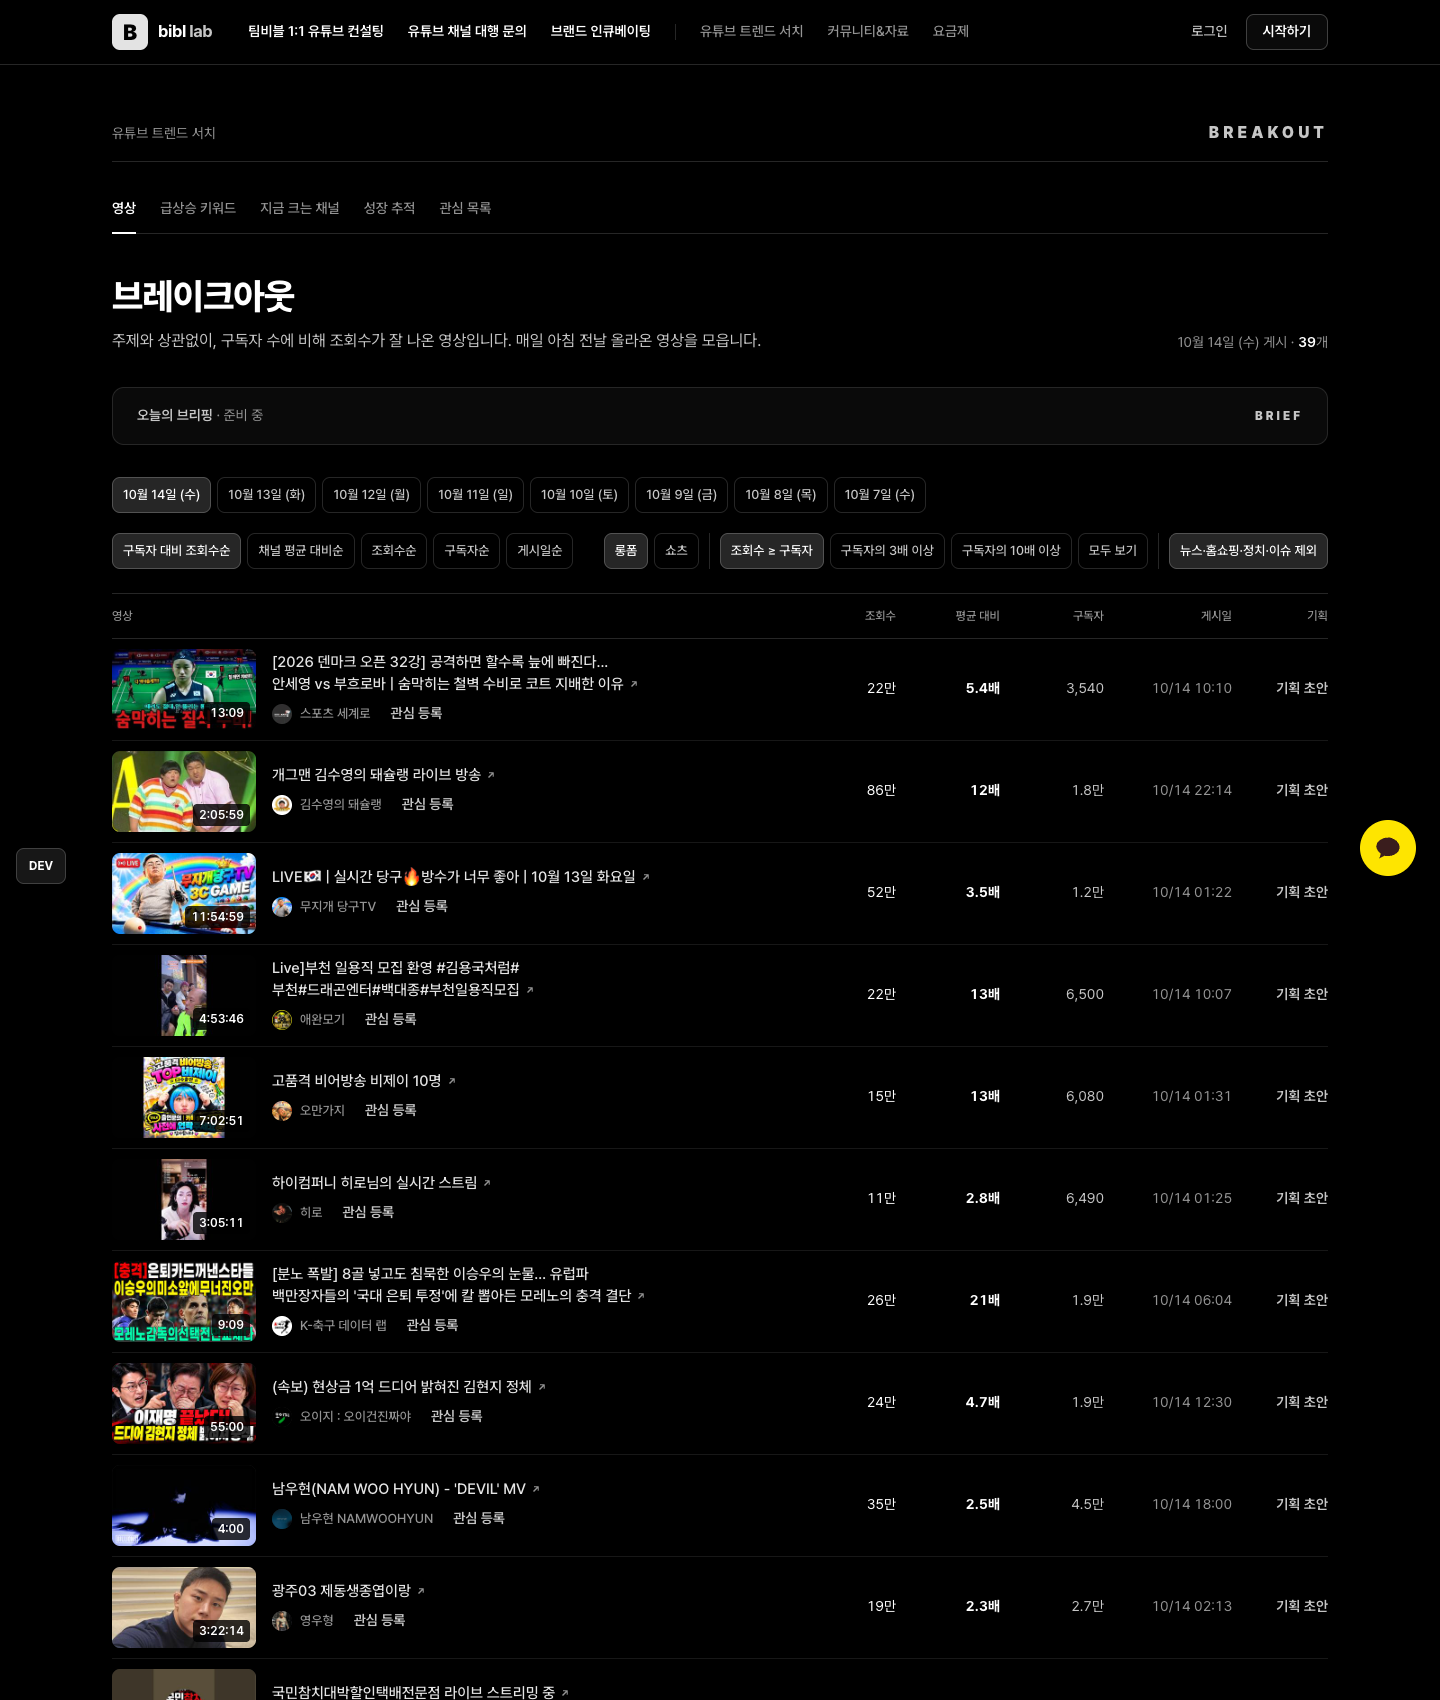
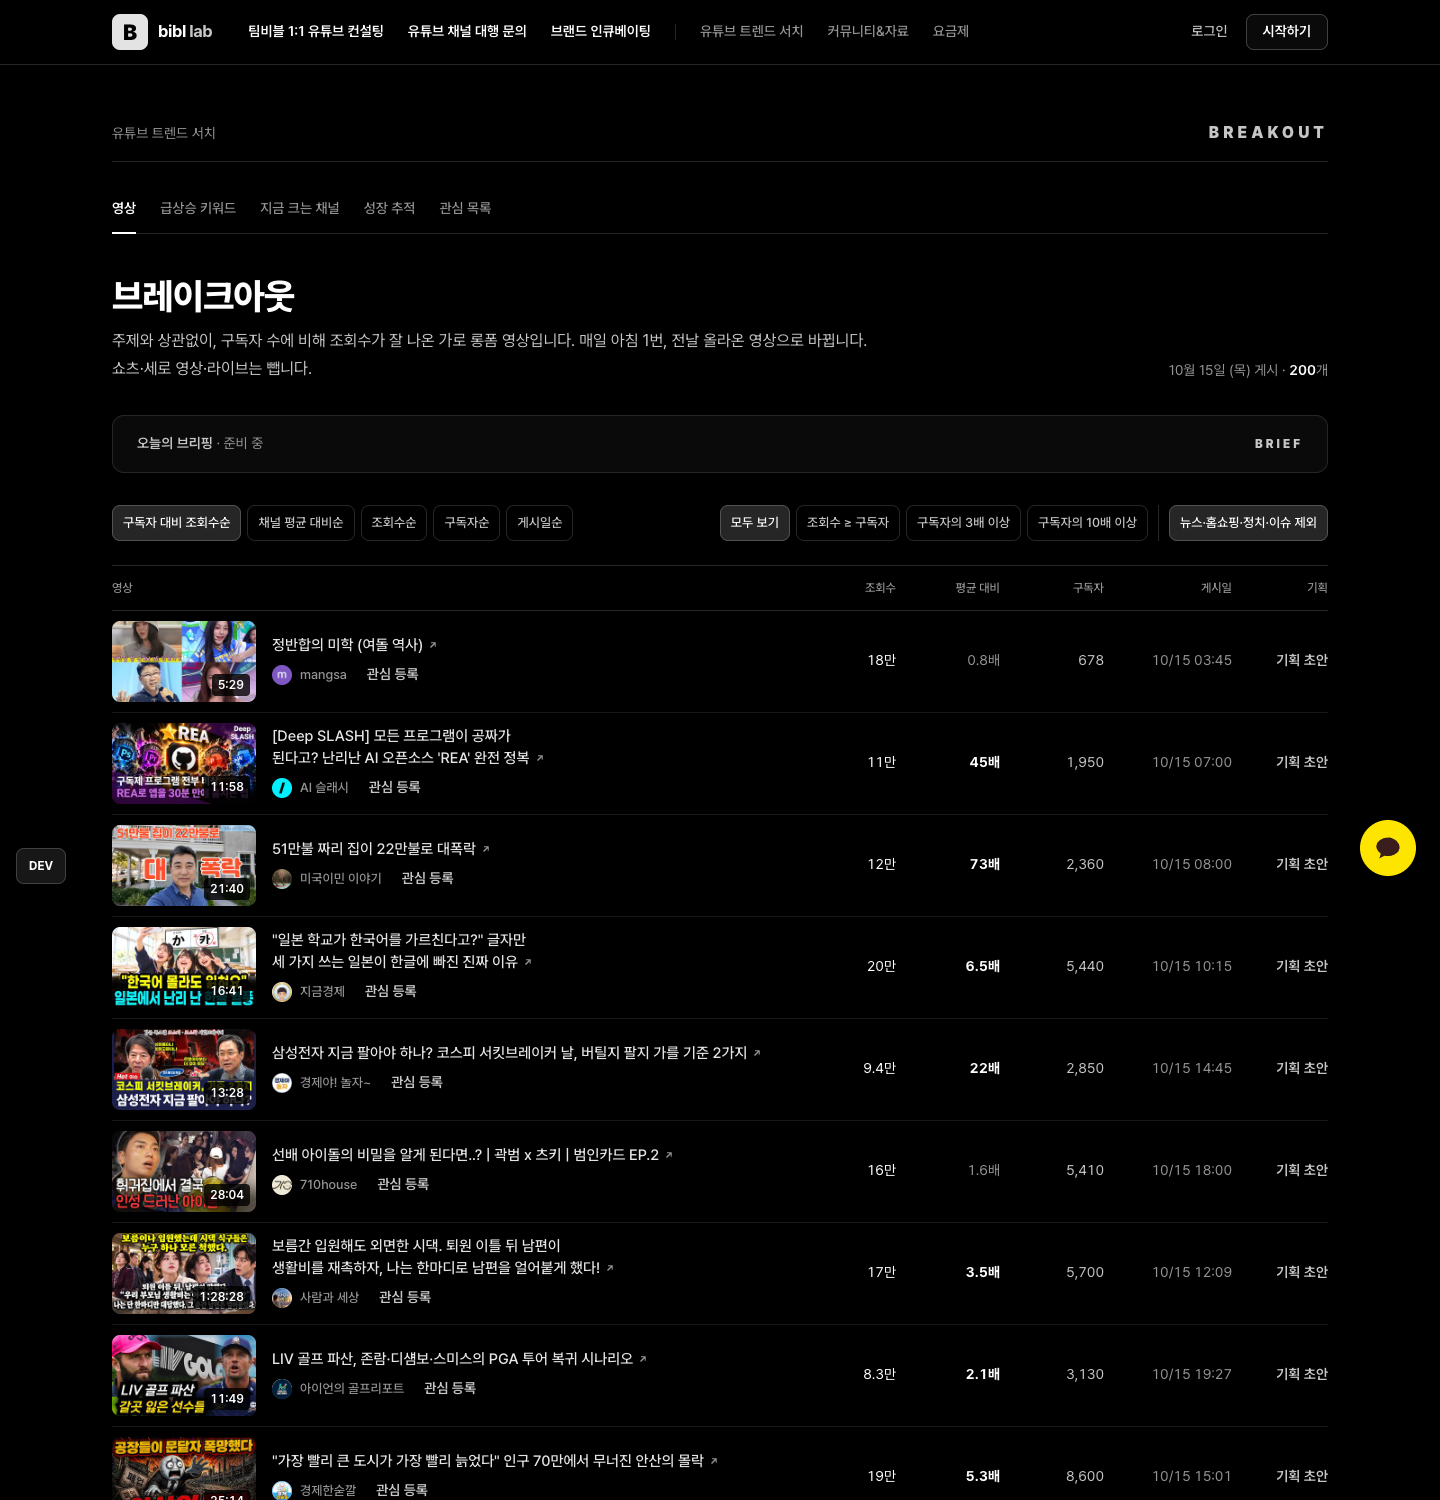
브레이크아웃: 가로 롱폼 후보 수집 확대(medium·long × 전체·카테고리 13개), 기본 기준 '모두 보기'
- 하루 후보 약 360 → 약 2,900, 가로 롱폼 190 → 약 490(10/15 기준), 기본 화면 200개 채움
- 쇼츠 길이 검색은 하지 않음(인기 차트에서만 일부)

diff --git a/src/lib/breakout.ts b/src/lib/breakout.ts
@@ -128,13 +128,14 @@ function parseDuration(iso: string): number {
 
 const chunk = <T,>(a: T[], n: number) => Array.from({ length: Math.ceil(a.length / n) }, (_, i) => a.slice(i * n, i * n + n));
 
-async function searchIds(after: string, before: string, videoDuration: string, pages: number): Promise<string[]> {
+async function searchIds(after: string, before: string, videoDuration: string, pages: number, categoryId?: string): Promise<string[]> {
   const ids: string[] = [];
   let pageToken = "";
   for (let p = 0; p < pages; p++) {
     const data = await yt("search", {
       part: "id", type: "video", regionCode: "KR", relevanceLanguage: "ko", order: "viewCount",
       publishedAfter: after, publishedBefore: before, maxResults: "50", videoDuration,
+      ...(categoryId ? { videoCategoryId: categoryId } : {}),
       ...(pageToken ? { pageToken } : {}),
     });
     if (!data) break;
@@ -160,12 +161,25 @@ const isBlocked = (title?: string) => BLOCK.test(title ?? "");
 
 const POPULAR_CATEGORIES = ["", "1", "10", "17", "20", "22", "23", "24", "25", "26", "27", "28"];
 
+/**
+ * 가로 롱폼 후보를 넉넉히 모으는 검색(소유자 결정 2026-10-16: 브레이크아웃은 가로 롱폼만, 하루 200개).
+ * 쇼츠 길이(short) 검색은 하지 않고 medium(4~20분)·long(20분 넘음)만, 전체 + 카테고리별로 조회수 순.
+ * 뉴스(25)는 화면에서 빼므로 카테고리 검색에서도 뺀다. 하루 search.list 약 64회(약 6,400 unit, 뒤쪽 키부터 사용).
+ */
+const LONG_DURATIONS = ["medium", "long"] as const;
+const LONG_SEARCH_PAGES = 6;
+const SEARCH_CATEGORIES = ["1", "2", "10", "15", "17", "19", "20", "22", "23", "24", "26", "27", "28"];
+const CATEGORY_SEARCH_PAGES = 2;
+
 export async function collectBreakout(date: string, opts: { dryRun?: boolean } = {}): Promise<{ date: string; candidates: number; saved: number; sample?: unknown[] }> {
   const { after, before } = kstDayRange(date);
   const afterMs = Date.parse(after), beforeMs = Date.parse(before);
 
   // 1) 후보 영상 ID
-  const searchSets = await Promise.all(["short", "medium", "long"].map((d) => searchIds(after, before, d, 4)));
+  const searchSets = await Promise.all([
+    ...LONG_DURATIONS.map((d) => searchIds(after, before, d, LONG_SEARCH_PAGES)),
+    ...SEARCH_CATEGORIES.flatMap((c) => LONG_DURATIONS.map((d) => searchIds(after, before, d, CATEGORY_SEARCH_PAGES, c))),
+  ]);
   const popular = await Promise.all(POPULAR_CATEGORIES.map((c) =>
     yt("videos", { part: "id,snippet", chart: "mostPopular", regionCode: "KR", maxResults: "50", ...(c ? { videoCategoryId: c } : {}) })));
   const popularIds = popular.flatMap((d) => (d?.items ?? [])

diff --git a/src/app/trend-search/breakout/breakout-view.tsx b/src/app/trend-search/breakout/breakout-view.tsx
@@ -25,11 +25,12 @@ const SORTS: { key: BreakoutSort; label: string }[] = [
   { key: "subs", label: "구독자" },
   { key: "recent", label: "게시일" },
 ];
+/** 기준: 기본은 모두 보기(구독자 대비 조회수 순 상위 200개, 소유자 결정 2026-10-16) */
 const MINS: { key: string; value: number; label: string }[] = [
+  { key: "0", value: 0, label: "모두 보기" },
   { key: "1", value: 1, label: "조회수 ≥ 구독자" },
   { key: "3", value: 3, label: "구독자의 3배 이상" },
   { key: "10", value: 10, label: "구독자의 10배 이상" },
-  { key: "0", value: 0, label: "모두 보기" },
 ];
 
 function num(n: number): string {
